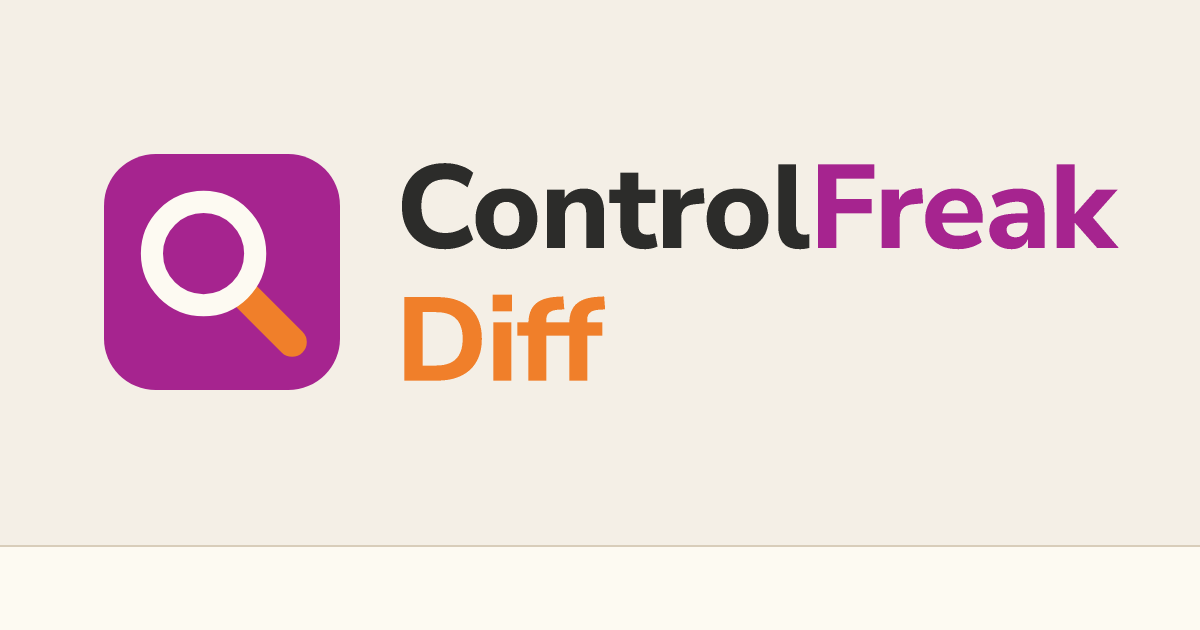
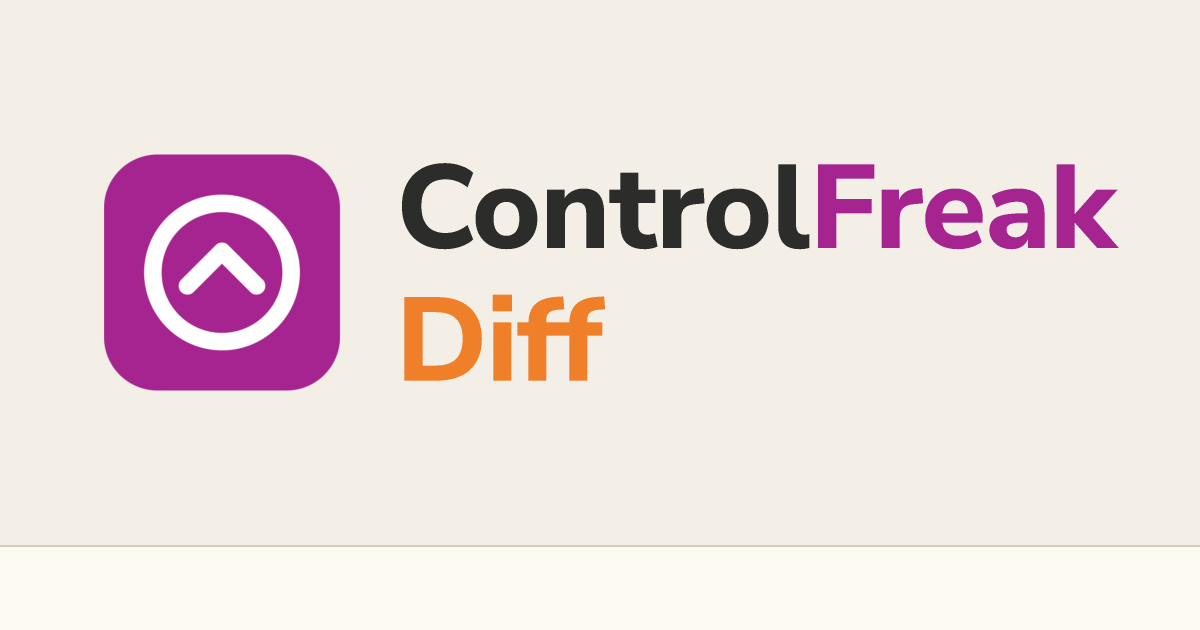
Let each app own its mark instead of keeping copies here
AppMark held a copy of every app's mark, so a new mark in one app meant a
release here and a lift and publish of every app. Now each app serves its
mark at /app-mark.svg and passes it to FamilyHeader and FamilyTitle as
markSrc; the switcher and the hub load the others' marks from their own
addresses, with the family mark when one cannot be loaded. The link preview
generator can draw one app's image with its own mark, so apps with a mark
keep their image themselves.

Changed region(s): [[0.0925, 0.3016, 0.2775, 0.573]]

diff --git a/dist/family/header.js b/dist/family/header.js
@@ -15,7 +15,7 @@ import { Fragment as _Fragment, jsx as _jsx, jsxs as _jsxs } from "react/jsx-run
 import { useEffect, useId, useRef, useState } from "react";
 import { HTML_LANG, LANG_LABELS, LANGS } from "../i18n/index.js";
 import { FAMILY_APPS, familyApp, familyHubUrl } from "./apps.js";
-import { AppMark, AppsIcon, BookIcon, ChevronIcon, CloseIcon, FeedbackIcon, GlobeIcon, MenuIcon, MoonIcon, SunIcon, } from "./icons.js";
+import { APP_MARK_PATH, FamilyAppMark, AppsIcon, BookIcon, ChevronIcon, CloseIcon, FeedbackIcon, GlobeIcon, MenuIcon, MoonIcon, SunIcon, } from "./icons.js";
 import { TEXTS } from "./texts.js";
 /**
  * An app's name written the family's way: "Control" in the text colour, "Freak" in the
@@ -53,7 +53,7 @@ function useCloseMenu(open, close, ref) {
         };
     }, [open, close, ref]);
 }
-export function FamilyHeader({ app, lang, langHref, onLangChange, theme, manualHref, onManual, manualNewTab, onFeedback, homeHref, name, children, compact = false, showApps = app !== "hub", className = "", }) {
+export function FamilyHeader({ app, lang, langHref, onLangChange, theme, manualHref, onManual, manualNewTab, onFeedback, homeHref, markSrc, name, children, compact = false, showApps = app !== "hub", className = "", }) {
     const t = TEXTS[lang];
     const [menu, setMenu] = useState(null);
     const root = useRef(null);
@@ -76,7 +76,7 @@ export function FamilyHeader({ app, lang, langHref, onLangChange, theme, manualH
     });
     const appItems = (_jsxs(_Fragment, { children: [FAMILY_APPS.map((a) => {
                 const current = a.id === app;
-                return (_jsxs("a", { href: a.url, role: "menuitem", "aria-current": current ? "true" : undefined, className: current ? "cf-family-current" : undefined, onClick: close, children: [_jsx(AppMark, { app: a.id, size: 20 }), _jsxs("span", { children: [_jsxs("span", { className: "cf-family-app-title", children: [_jsx(FamilyName, { app: a }), current && _jsx("span", { className: "cf-family-sr", children: ` (${t.thisApp})` })] }), _jsx("span", { className: "cf-family-app-what", children: a.what[lang] })] })] }, a.id));
+                return (_jsxs("a", { href: a.url, role: "menuitem", "aria-current": current ? "true" : undefined, className: current ? "cf-family-current" : undefined, onClick: close, children: [_jsx(FamilyAppMark, { src: current ? markSrc : a.url + APP_MARK_PATH, size: 20 }), _jsxs("span", { children: [_jsxs("span", { className: "cf-family-app-title", children: [_jsx(FamilyName, { app: a }), current && _jsx("span", { className: "cf-family-sr", children: ` (${t.thisApp})` })] }), _jsx("span", { className: "cf-family-app-what", children: a.what[lang] })] })] }, a.id));
             }), _jsxs("a", { href: familyHubUrl(lang), role: "menuitem", className: `cf-family-hub${app === "hub" ? " cf-family-current" : ""}`, "aria-current": app === "hub" ? "true" : undefined, onClick: close, children: [_jsx("span", { className: "cf-family-app-title", children: "controlfreak.se" }), _jsx("span", { className: "cf-family-app-what", children: t.allApps })] })] }));
     const manualLink = hasManual && (_jsxs("a", { href: manualHref ?? "#", onClick: (e) => {
             close();
@@ -90,5 +90,5 @@ export function FamilyHeader({ app, lang, langHref, onLangChange, theme, manualH
             close();
             theme.onToggle();
         }, "aria-label": compact ? undefined : theme.dark ? t.lightMode : t.darkMode, title: compact ? undefined : theme.dark ? t.lightMode : t.darkMode, children: [theme.dark ? _jsx(SunIcon, {}) : _jsx(MoonIcon, {}), compact && _jsx("span", { children: theme.dark ? t.lightMode : t.darkMode })] }));
-    return (_jsxs("header", { ref: root, className: `cf-family-header${compact ? " cf-family-compact" : ""} ${className}`.trim(), children: [_jsxs("a", { href: home, className: "cf-family-home", "aria-label": app === "hub" ? undefined : t.toStart, children: [_jsx(AppMark, { app: app, size: compact ? 26 : 28 }), app === "hub" ? (_jsx("span", { className: "cf-family-name", children: "controlfreak.se" })) : (_jsx(FamilyName, { app: name ?? app }))] }), children !== undefined && children !== null && (_jsx("div", { className: "cf-family-middle", children: children })), compact ? (_jsx("div", { className: "cf-family-tools", children: _jsx("button", { type: "button", className: `cf-family-tool${menu === "sheet" ? " cf-family-on" : ""}`, "aria-expanded": menu === "sheet", "aria-controls": sheetId, "aria-label": menu === "sheet" ? t.close : t.menu, onClick: () => setMenu(menu === "sheet" ? null : "sheet"), children: menu === "sheet" ? _jsx(CloseIcon, {}) : _jsx(MenuIcon, {}) }) })) : (_jsxs("div", { className: "cf-family-tools", children: [showApps && (_jsx("button", { type: "button", className: `cf-family-tool${menu === "apps" ? " cf-family-on" : ""}`, "aria-expanded": menu === "apps", "aria-controls": appsId, "aria-haspopup": "menu", "aria-label": t.apps, title: t.apps, onClick: () => setMenu(menu === "apps" ? null : "apps"), children: _jsx(AppsIcon, {}) })), hasLang && (_jsxs("button", { type: "button", className: `cf-family-tool cf-family-lang${menu === "lang" ? " cf-family-on" : ""}`, "aria-expanded": menu === "lang", "aria-controls": langId, "aria-haspopup": "menu", "aria-label": `${t.language}: ${LANG_LABELS[lang]}`, title: t.language, onClick: () => setMenu(menu === "lang" ? null : "lang"), children: [lang, _jsx(ChevronIcon, {})] })), themeButton, manualLink, feedbackButton] })), showApps && !compact && (_jsxs("div", { id: appsId, role: "menu", "aria-label": t.apps, className: "cf-family-pop cf-family-apps", hidden: menu !== "apps", children: [_jsx("div", { className: "cf-family-pop-head", children: t.apps }), appItems] })), hasLang && !compact && (_jsx("div", { id: langId, role: "menu", "aria-label": t.language, className: "cf-family-pop cf-family-langs", hidden: menu !== "lang", children: langItems })), compact && (_jsxs("div", { id: sheetId, className: "cf-family-sheet", hidden: menu !== "sheet", children: [hasLang && (_jsxs("div", { className: "cf-family-sheet-row", children: [_jsx(GlobeIcon, {}), _jsx("span", { className: "cf-family-sheet-label", children: t.language }), _jsx("div", { className: "cf-family-sheet-langs", role: "menu", "aria-label": t.language, children: langItems })] })), themeButton, manualLink, feedbackButton, showApps && (_jsxs(_Fragment, { children: [_jsx("div", { className: "cf-family-pop-head", children: t.apps }), _jsx("div", { role: "menu", "aria-label": t.apps, className: "cf-family-sheet-apps", children: appItems })] }))] }))] }));
+    return (_jsxs("header", { ref: root, className: `cf-family-header${compact ? " cf-family-compact" : ""} ${className}`.trim(), children: [_jsxs("a", { href: home, className: "cf-family-home", "aria-label": app === "hub" ? undefined : t.toStart, children: [_jsx(FamilyAppMark, { src: markSrc, size: compact ? 26 : 28 }), app === "hub" ? (_jsx("span", { className: "cf-family-name", children: "controlfreak.se" })) : (_jsx(FamilyName, { app: name ?? app }))] }), children !== undefined && children !== null && (_jsx("div", { className: "cf-family-middle", children: children })), compact ? (_jsx("div", { className: "cf-family-tools", children: _jsx("button", { type: "button", className: `cf-family-tool${menu === "sheet" ? " cf-family-on" : ""}`, "aria-expanded": menu === "sheet", "aria-controls": sheetId, "aria-label": menu === "sheet" ? t.close : t.menu, onClick: () => setMenu(menu === "sheet" ? null : "sheet"), children: menu === "sheet" ? _jsx(CloseIcon, {}) : _jsx(MenuIcon, {}) }) })) : (_jsxs("div", { className: "cf-family-tools", children: [showApps && (_jsx("button", { type: "button", className: `cf-family-tool${menu === "apps" ? " cf-family-on" : ""}`, "aria-expanded": menu === "apps", "aria-controls": appsId, "aria-haspopup": "menu", "aria-label": t.apps, title: t.apps, onClick: () => setMenu(menu === "apps" ? null : "apps"), children: _jsx(AppsIcon, {}) })), hasLang && (_jsxs("button", { type: "button", className: `cf-family-tool cf-family-lang${menu === "lang" ? " cf-family-on" : ""}`, "aria-expanded": menu === "lang", "aria-controls": langId, "aria-haspopup": "menu", "aria-label": `${t.language}: ${LANG_LABELS[lang]}`, title: t.language, onClick: () => setMenu(menu === "lang" ? null : "lang"), children: [lang, _jsx(ChevronIcon, {})] })), themeButton, manualLink, feedbackButton] })), showApps && !compact && (_jsxs("div", { id: appsId, role: "menu", "aria-label": t.apps, className: "cf-family-pop cf-family-apps", hidden: menu !== "apps", children: [_jsx("div", { className: "cf-family-pop-head", children: t.apps }), appItems] })), hasLang && !compact && (_jsx("div", { id: langId, role: "menu", "aria-label": t.language, className: "cf-family-pop cf-family-langs", hidden: menu !== "lang", children: langItems })), compact && (_jsxs("div", { id: sheetId, className: "cf-family-sheet", hidden: menu !== "sheet", children: [hasLang && (_jsxs("div", { className: "cf-family-sheet-row", children: [_jsx(GlobeIcon, {}), _jsx("span", { className: "cf-family-sheet-label", children: t.language }), _jsx("div", { className: "cf-family-sheet-langs", role: "menu", "aria-label": t.language, children: langItems })] })), themeButton, manualLink, feedbackButton, showApps && (_jsxs(_Fragment, { children: [_jsx("div", { className: "cf-family-pop-head", children: t.apps }), _jsx("div", { role: "menu", "aria-label": t.apps, className: "cf-family-sheet-apps", children: appItems })] }))] }))] }));
 }

diff --git a/dist/family/icons.js b/dist/family/icons.js
@@ -1,4 +1,5 @@
 import { jsx as _jsx, jsxs as _jsxs } from "react/jsx-runtime";
+import { useEffect, useRef, useState } from "react";
 /** The header's icons, drawn in the text colour. All are decorative; the buttons carry the names. */
 const common = {
     viewBox: "0 0 24 24",
@@ -25,19 +26,27 @@ export const CloseIcon = () => (_jsx("svg", { ...common, children: _jsx("path", 
  * tile, `assets/controlfreak-mark.svg` scaled from its 512 grid to 32.
  */
 export const Mark = ({ size = 28 }) => (_jsxs("svg", { viewBox: "0 0 32 32", width: size, height: size, "aria-hidden": "true", children: [_jsx("rect", { width: "32", height: "32", rx: "7.25", fill: "#a6248f" }), _jsx("circle", { cx: "16", cy: "16", r: "9.375", fill: "none", stroke: "#fff", strokeWidth: "2.375" }), _jsx("path", { d: "M11.3125 17.8125 16 13.125l4.6875 4.6875", fill: "none", stroke: "#fff", strokeWidth: "2.375", strokeLinecap: "round", strokeLinejoin: "round" })] }));
+/** Where every app serves its own mark, at its own address. */
+export const APP_MARK_PATH = "/app-mark.svg";
 /**
- * An app's own mark, as its page icon shows it, for the family header, the app switcher
- * and the start image's title. ControlFreak, MCP and the hub show the family's mark. The drawings are copies of the apps' icons (Event,
- * Start, Run and Diff: `src/brand/`).
+ * An app's own mark. Each app owns its mark and serves it at `/app-mark.svg`, so a new
+ * mark needs only that app to be published, not every app and not this package.
+ *
+ * `src` is the image to show; left out, the family's mark. When the image cannot be
+ * loaded (offline, or an app that does not serve one yet), the family's mark is shown
+ * instead, so a mark is never a broken image.
  */
-export const AppMark = ({ app, size = 20 }) => {
-    if (app === "event")
-        return (_jsxs("svg", { viewBox: "0 0 32 32", width: size, height: size, "aria-hidden": "true", children: [_jsx("rect", { width: "32", height: "32", rx: "7", fill: "#a6248f" }), _jsx("polygon", { points: "16.00,4.60 16.88,6.99 19.42,7.09 17.43,8.66 18.12,11.11 16.00,9.70 13.88,11.11 14.57,8.66 12.58,7.09 15.12,6.99", fill: "#fdfaf2" }), _jsx("path", { d: "M5.5 17.5h7V26h-7z M19.5 20h7v6h-7z", fill: "#fdfaf2" }), _jsx("path", { d: "M12.5 13.5h7V26h-7z", fill: "#f07f2a" })] }));
-    if (app === "run")
-        return (_jsxs("svg", { viewBox: "0 0 100 100", width: size, height: size, "aria-hidden": "true", children: [_jsx("rect", { width: "100", height: "100", rx: "22", fill: "#a6248f" }), _jsx("circle", { cx: "50", cy: "50", r: "30", fill: "none", stroke: "#fff", strokeWidth: "6", strokeDasharray: "13.6 10", transform: "rotate(-11 50 50)" }), _jsx("rect", { x: "36", y: "36", width: "28", height: "28", fill: "#fff" }), _jsx("polygon", { points: "64,36 64,64 36,64", fill: "#f07f2a" })] }));
-    if (app === "diff")
-        return (_jsxs("svg", { viewBox: "0 0 32 32", width: size, height: size, "aria-hidden": "true", children: [_jsx("rect", { width: "32", height: "32", rx: "7", fill: "#a6248f" }), _jsx("line", { x1: "19.2", y1: "19.2", x2: "25.5", y2: "25.5", stroke: "#f07f2a", strokeWidth: "4", strokeLinecap: "round" }), _jsx("circle", { cx: "13.5", cy: "13.5", r: "7", fill: "none", stroke: "#fdfaf2", strokeWidth: "3" })] }));
-    if (app === "startklocka")
-        return (_jsxs("svg", { viewBox: "0 0 32 32", width: size, height: size, "aria-hidden": "true", children: [_jsx("rect", { width: "32", height: "32", rx: "7", fill: "#a6248f" }), _jsx("circle", { cx: "16", cy: "16", r: "10", fill: "none", stroke: "#fdfaf2", strokeWidth: "2.8" }), _jsx("polygon", { points: "16.00,10.60 21.20,19.60 10.80,19.60", fill: "none", stroke: "#f07f2a", strokeWidth: "2.6", strokeLinejoin: "round" })] }));
-    return _jsx(Mark, { size: size });
-};
+export function FamilyAppMark({ src, size = 20 }) {
+    const [failed, setFailed] = useState(false);
+    const img = useRef(null);
+    useEffect(() => {
+        setFailed(false);
+        // An error before React took over the server's markup fires no onError.
+        const el = img.current;
+        if (el && el.complete && el.naturalWidth === 0)
+            setFailed(true);
+    }, [src]);
+    if (!src || failed)
+        return _jsx(Mark, { size: size });
+    return (_jsx("img", { ref: img, src: src, width: size, height: size, alt: "", "aria-hidden": "true", decoding: "async", onError: () => setFailed(true) }));
+}

diff --git a/src/family/icons.tsx b/src/family/icons.tsx
@@ -1,3 +1,5 @@
+import { useEffect, useRef, useState } from "react";
+
 /** The header's icons, drawn in the text colour. All are decorative; the buttons carry the names. */
 
 const common = {
@@ -91,71 +93,37 @@ export const Mark = ({ size = 28 }: { size?: number }) => (
   </svg>
 );
 
+/** Where every app serves its own mark, at its own address. */
+export const APP_MARK_PATH = "/app-mark.svg";
+
 /**
- * An app's own mark, as its page icon shows it, for the family header, the app switcher
- * and the start image's title. ControlFreak, MCP and the hub show the family's mark. The drawings are copies of the apps' icons (Event,
- * Start, Run and Diff: `src/brand/`).
+ * An app's own mark. Each app owns its mark and serves it at `/app-mark.svg`, so a new
+ * mark needs only that app to be published, not every app and not this package.
+ *
+ * `src` is the image to show; left out, the family's mark. When the image cannot be
+ * loaded (offline, or an app that does not serve one yet), the family's mark is shown
+ * instead, so a mark is never a broken image.
  */
-export const AppMark = ({ app, size = 20 }: { app: string; size?: number }) => {
-  if (app === "event")
-    return (
-      <svg viewBox="0 0 32 32" width={size} height={size} aria-hidden="true">
-        <rect width="32" height="32" rx="7" fill="#a6248f" />
-        <polygon
-          points="16.00,4.60 16.88,6.99 19.42,7.09 17.43,8.66 18.12,11.11 16.00,9.70 13.88,11.11 14.57,8.66 12.58,7.09 15.12,6.99"
-          fill="#fdfaf2"
-        />
-        <path d="M5.5 17.5h7V26h-7z M19.5 20h7v6h-7z" fill="#fdfaf2" />
-        <path d="M12.5 13.5h7V26h-7z" fill="#f07f2a" />
-      </svg>
-    );
-  if (app === "run")
-    return (
-      <svg viewBox="0 0 100 100" width={size} height={size} aria-hidden="true">
-        <rect width="100" height="100" rx="22" fill="#a6248f" />
-        <circle
-          cx="50"
-          cy="50"
-          r="30"
-          fill="none"
-          stroke="#fff"
-          strokeWidth="6"
-          strokeDasharray="13.6 10"
-          transform="rotate(-11 50 50)"
-        />
-        <rect x="36" y="36" width="28" height="28" fill="#fff" />
-        <polygon points="64,36 64,64 36,64" fill="#f07f2a" />
-      </svg>
-    );
-  if (app === "diff")
-    return (
-      <svg viewBox="0 0 32 32" width={size} height={size} aria-hidden="true">
-        <rect width="32" height="32" rx="7" fill="#a6248f" />
-        <line
-          x1="19.2"
-          y1="19.2"
-          x2="25.5"
-          y2="25.5"
-          stroke="#f07f2a"
-          strokeWidth="4"
-          strokeLinecap="round"
-        />
-        <circle cx="13.5" cy="13.5" r="7" fill="none" stroke="#fdfaf2" strokeWidth="3" />
-      </svg>
-    );
-  if (app === "startklocka")
-    return (
-      <svg viewBox="0 0 32 32" width={size} height={size} aria-hidden="true">
-        <rect width="32" height="32" rx="7" fill="#a6248f" />
-        <circle cx="16" cy="16" r="10" fill="none" stroke="#fdfaf2" strokeWidth="2.8" />
-        <polygon
-          points="16.00,10.60 21.20,19.60 10.80,19.60"
-          fill="none"
-          stroke="#f07f2a"
-          strokeWidth="2.6"
-          strokeLinejoin="round"
-        />
-      </svg>
-    );
-  return <Mark size={size} />;
-};
+export function FamilyAppMark({ src, size = 20 }: { src?: string; size?: number }) {
+  const [failed, setFailed] = useState(false);
+  const img = useRef<HTMLImageElement>(null);
+  useEffect(() => {
+    setFailed(false);
+    // An error before React took over the server's markup fires no onError.
+    const el = img.current;
+    if (el && el.complete && el.naturalWidth === 0) setFailed(true);
+  }, [src]);
+  if (!src || failed) return <Mark size={size} />;
+  return (
+    <img
+      ref={img}
+      src={src}
+      width={size}
+      height={size}
+      alt=""
+      aria-hidden="true"
+      decoding="async"
+      onError={() => setFailed(true)}
+    />
+  );
+}

diff --git a/dist/splash/family-title.js b/dist/splash/family-title.js
@@ -1,5 +1,4 @@
 import { jsx as _jsx, Fragment as _Fragment, jsxs as _jsxs } from "react/jsx-runtime";
-import { AppMark } from "../family/icons.js";
 /** The brand's own colours for the title, the same in every app and theme. */
 const PURPLE = "#A6248F";
 const INK = "#2C2C2A";
@@ -16,9 +15,10 @@ const MUTED = "#6B6A64";
  * @param y - Where the top left corner goes.
  * @param scale - Size relative to ControlFreak's own start image.
  * @param app - The second line; null for none.
- * @param mark - The app whose own mark to draw (an id as in FAMILY_APPS, e.g. "event");
- *   left out, the family's mark.
+ * @param markSrc - The app's own mark as an image address, best the data URL the app
+ *   bundles (`import mark from "@/brand/app-mark.svg?inline"`); left out, the family's
+ *   mark.
  */
-export function FamilyTitle({ x = 0, y = 0, scale = 1, app = null, mark, }) {
-    return (_jsxs("g", { transform: `translate(${x} ${y}) scale(${scale})`, children: [mark ? (_jsx(AppMark, { app: mark, size: 52 })) : (_jsxs(_Fragment, { children: [_jsx("rect", { width: "52", height: "52", rx: "13", fill: PURPLE }), _jsx("circle", { cx: "26", cy: "26", r: "16", fill: "none", stroke: "#FFFFFF", strokeWidth: "4" }), _jsx("path", { d: "M18 32 L26 24 L34 32", fill: "none", stroke: "#FFFFFF", strokeWidth: "4", strokeLinecap: "round", strokeLinejoin: "round" })] })), _jsxs("text", { x: "66", y: "35", fontSize: "34", fontWeight: "500", fill: INK, children: ["Control", _jsx("tspan", { fill: PURPLE, children: "Freak" })] }), app && (_jsx("text", { x: "68", y: "58", fontSize: "16", fontWeight: "600", fill: MUTED, children: app }))] }));
+export function FamilyTitle({ x = 0, y = 0, scale = 1, app = null, markSrc, }) {
+    return (_jsxs("g", { transform: `translate(${x} ${y}) scale(${scale})`, children: [markSrc ? (_jsx("image", { href: markSrc, width: "52", height: "52" })) : (_jsxs(_Fragment, { children: [_jsx("rect", { width: "52", height: "52", rx: "13", fill: PURPLE }), _jsx("circle", { cx: "26", cy: "26", r: "16", fill: "none", stroke: "#FFFFFF", strokeWidth: "4" }), _jsx("path", { d: "M18 32 L26 24 L34 32", fill: "none", stroke: "#FFFFFF", strokeWidth: "4", strokeLinecap: "round", strokeLinejoin: "round" })] })), _jsxs("text", { x: "66", y: "35", fontSize: "34", fontWeight: "500", fill: INK, children: ["Control", _jsx("tspan", { fill: PURPLE, children: "Freak" })] }), app && (_jsx("text", { x: "68", y: "58", fontSize: "16", fontWeight: "600", fill: MUTED, children: app }))] }));
 }

diff --git a/src/family/header.tsx b/src/family/header.tsx
@@ -17,7 +17,8 @@ import { useEffect, useId, useRef, useState, type MouseEvent, type ReactNode } f
 import { HTML_LANG, LANG_LABELS, LANGS, type Lang } from "../i18n/index.js";
 import { FAMILY_APPS, familyApp, familyHubUrl, type FamilyAccent, type FamilyAppId } from "./apps.js";
 import {
-  AppMark,
+  APP_MARK_PATH,
+  FamilyAppMark,
   AppsIcon,
   BookIcon,
   ChevronIcon,
@@ -86,6 +87,13 @@ export type FamilyHeaderProps = {
   manualNewTab?: boolean;
   /** Opens the app's feedback dialog. Left out, no button. */
   onFeedback?: () => void;
+  /**
+   * This app's own mark as an image address, best a data URL bundled with the app
+   * (`import mark from "@/brand/app-mark.svg?inline"`), so it shows offline and needs no
+   * request. Left out, the family's mark. The switcher shows the other apps' marks from
+   * their own addresses (`https://<app>/app-mark.svg`).
+   */
+  markSrc?: string;
   /** Where the mark and name lead; the app's start page when left out. */
   homeHref?: string;
   /**
@@ -134,6 +142,7 @@ export function FamilyHeader({
   manualNewTab,
   onFeedback,
   homeHref,
+  markSrc,
   name,
   children,
   compact = false,
@@ -200,7 +209,7 @@ export function FamilyHeader({
             className={current ? "cf-family-current" : undefined}
             onClick={close}
           >
-            <AppMark app={a.id} size={20} />
+            <FamilyAppMark src={current ? markSrc : a.url + APP_MARK_PATH} size={20} />
             <span>
               <span className="cf-family-app-title">
                 <FamilyName app={a} />
@@ -279,7 +288,7 @@ export function FamilyHeader({
       className={`cf-family-header${compact ? " cf-family-compact" : ""} ${className}`.trim()}
     >
       <a href={home} className="cf-family-home" aria-label={app === "hub" ? undefined : t.toStart}>
-        <AppMark app={app} size={compact ? 26 : 28} />
+        <FamilyAppMark src={markSrc} size={compact ? 26 : 28} />
         {app === "hub" ? (
           <span className="cf-family-name">controlfreak.se</span>
         ) : (

diff --git a/dist/family/icons.d.ts b/dist/family/icons.d.ts
@@ -1,4 +1,3 @@
-/** The header's icons, drawn in the text colour. All are decorative; the buttons carry the names. */
 export declare const AppsIcon: () => import("react").JSX.Element;
 export declare const ChevronIcon: () => import("react").JSX.Element;
 export declare const MoonIcon: () => import("react").JSX.Element;
@@ -15,12 +14,17 @@ export declare const CloseIcon: () => import("react").JSX.Element;
 export declare const Mark: ({ size }: {
     size?: number;
 }) => import("react").JSX.Element;
+/** Where every app serves its own mark, at its own address. */
+export declare const APP_MARK_PATH = "/app-mark.svg";
 /**
- * An app's own mark, as its page icon shows it, for the family header, the app switcher
- * and the start image's title. ControlFreak, MCP and the hub show the family's mark. The drawings are copies of the apps' icons (Event,
- * Start, Run and Diff: `src/brand/`).
+ * An app's own mark. Each app owns its mark and serves it at `/app-mark.svg`, so a new
+ * mark needs only that app to be published, not every app and not this package.
+ *
+ * `src` is the image to show; left out, the family's mark. When the image cannot be
+ * loaded (offline, or an app that does not serve one yet), the family's mark is shown
+ * instead, so a mark is never a broken image.
  */
-export declare const AppMark: ({ app, size }: {
-    app: string;
+export declare function FamilyAppMark({ src, size }: {
+    src?: string;
     size?: number;
-}) => import("react").JSX.Element;
+}): import("react").JSX.Element;

diff --git a/dist/family/header.d.ts b/dist/family/header.d.ts
@@ -46,6 +46,13 @@ export type FamilyHeaderProps = {
     manualNewTab?: boolean;
     /** Opens the app's feedback dialog. Left out, no button. */
     onFeedback?: () => void;
+    /**
+     * This app's own mark as an image address, best a data URL bundled with the app
+     * (`import mark from "@/brand/app-mark.svg?inline"`), so it shows offline and needs no
+     * request. Left out, the family's mark. The switcher shows the other apps' marks from
+     * their own addresses (`https://<app>/app-mark.svg`).
+     */
+    markSrc?: string;
     /** Where the mark and name lead; the app's start page when left out. */
     homeHref?: string;
     /**
@@ -65,4 +72,4 @@ export type FamilyHeaderProps = {
     showApps?: boolean;
     className?: string;
 };
-export declare function FamilyHeader({ app, lang, langHref, onLangChange, theme, manualHref, onManual, manualNewTab, onFeedback, homeHref, name, children, compact, showApps, className, }: FamilyHeaderProps): import("react").JSX.Element;
+export declare function FamilyHeader({ app, lang, langHref, onLangChange, theme, manualHref, onManual, manualNewTab, onFeedback, homeHref, markSrc, name, children, compact, showApps, className, }: FamilyHeaderProps): import("react").JSX.Element;

diff --git a/src/splash/family-title.tsx b/src/splash/family-title.tsx
@@ -1,5 +1,3 @@
-import { AppMark } from "../family/icons.js";
-
 /** The brand's own colours for the title, the same in every app and theme. */
 const PURPLE = "#A6248F";
 const INK = "#2C2C2A";
@@ -17,26 +15,27 @@ const MUTED = "#6B6A64";
  * @param y - Where the top left corner goes.
  * @param scale - Size relative to ControlFreak's own start image.
  * @param app - The second line; null for none.
- * @param mark - The app whose own mark to draw (an id as in FAMILY_APPS, e.g. "event");
- *   left out, the family's mark.
+ * @param markSrc - The app's own mark as an image address, best the data URL the app
+ *   bundles (`import mark from "@/brand/app-mark.svg?inline"`); left out, the family's
+ *   mark.
  */
 export function FamilyTitle({
   x = 0,
   y = 0,
   scale = 1,
   app = null,
-  mark,
+  markSrc,
 }: {
   x?: number;
   y?: number;
   scale?: number;
   app?: string | null;
-  mark?: string;
+  markSrc?: string;
 }) {
   return (
     <g transform={`translate(${x} ${y}) scale(${scale})`}>
-      {mark ? (
-        <AppMark app={mark} size={52} />
+      {markSrc ? (
+        <image href={markSrc} width="52" height="52" />
       ) : (
         <>
           <rect width="52" height="52" rx="13" fill={PURPLE} />

diff --git a/dist/splash/family-title.d.ts b/dist/splash/family-title.d.ts
@@ -10,13 +10,14 @@
  * @param y - Where the top left corner goes.
  * @param scale - Size relative to ControlFreak's own start image.
  * @param app - The second line; null for none.
- * @param mark - The app whose own mark to draw (an id as in FAMILY_APPS, e.g. "event");
- *   left out, the family's mark.
+ * @param markSrc - The app's own mark as an image address, best the data URL the app
+ *   bundles (`import mark from "@/brand/app-mark.svg?inline"`); left out, the family's
+ *   mark.
  */
-export declare function FamilyTitle({ x, y, scale, app, mark, }: {
+export declare function FamilyTitle({ x, y, scale, app, markSrc, }: {
     x?: number;
     y?: number;
     scale?: number;
     app?: string | null;
-    mark?: string;
+    markSrc?: string;
 }): import("react").JSX.Element;

diff --git a/dist/family/index.d.ts b/dist/family/index.d.ts
@@ -4,6 +4,6 @@
  */
 export { FAMILY_APPS, FAMILY_HUB_URL, familyApp, familyHubUrl, type FamilyAccent, type FamilyApp, type FamilyAppId, } from "./apps.js";
 export { FamilyFooter, type FamilyFooterProps } from "./footer.js";
-export { AppMark } from "./icons.js";
+export { APP_MARK_PATH, FamilyAppMark } from "./icons.js";
 export { FamilyHeader, FamilyName, type FamilyHeaderProps } from "./header.js";
 export { TEXTS as FAMILY_TEXTS, type FamilyTexts } from "./texts.js";

diff --git a/src/family/index.ts b/src/family/index.ts
@@ -12,6 +12,6 @@ export {
   type FamilyAppId,
 } from "./apps.js";
 export { FamilyFooter, type FamilyFooterProps } from "./footer.js";
-export { AppMark } from "./icons.js";
+export { APP_MARK_PATH, FamilyAppMark } from "./icons.js";
 export { FamilyHeader, FamilyName, type FamilyHeaderProps } from "./header.js";
 export { TEXTS as FAMILY_TEXTS, type FamilyTexts } from "./texts.js";

diff --git a/dist/family/index.js b/dist/family/index.js
@@ -4,6 +4,6 @@
  */
 export { FAMILY_APPS, FAMILY_HUB_URL, familyApp, familyHubUrl, } from "./apps.js";
 export { FamilyFooter } from "./footer.js";
-export { AppMark } from "./icons.js";
+export { APP_MARK_PATH, FamilyAppMark } from "./icons.js";
 export { FamilyHeader, FamilyName } from "./header.js";
 export { TEXTS as FAMILY_TEXTS } from "./texts.js";
